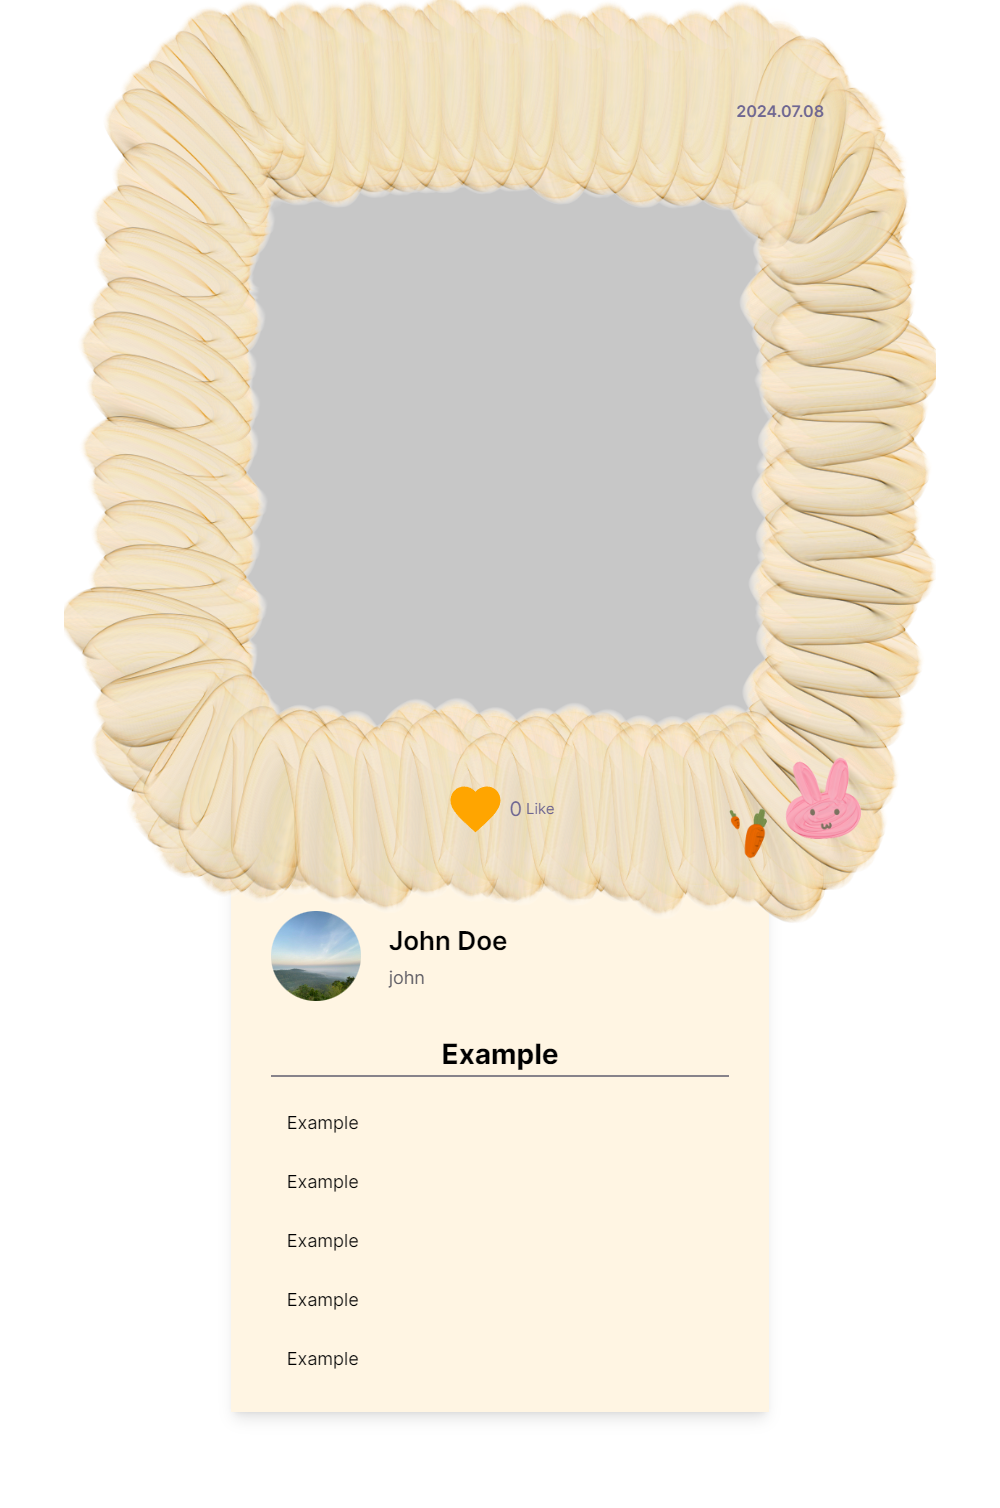
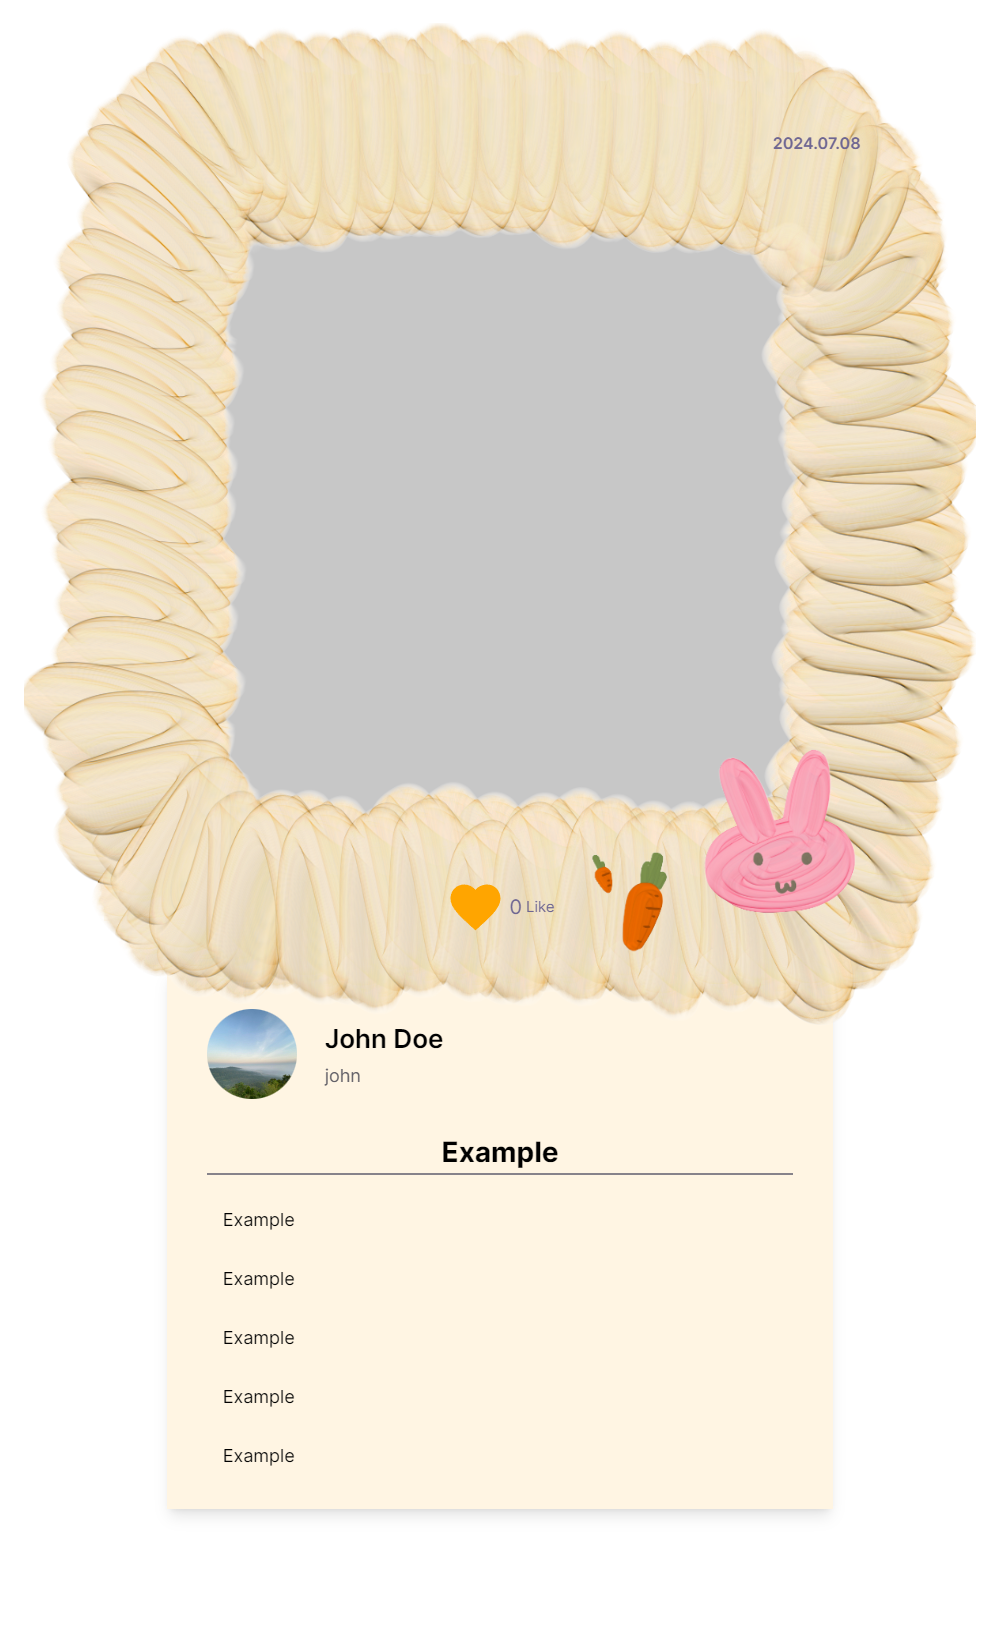
updated

Changed region(s): [[0.0, 0.0, 0.992, 0.935], [0.434, 0.6857, 0.558, 0.7168]]

diff --git a/components/previewFrame/CloudPre.jsx b/components/previewFrame/CloudPre.jsx
@@ -199,7 +199,7 @@ const CloudPre = ({ date, post, likesCount, creator, details, sriracha }) => {
           <div
             ref={postRef}
             id="postToSave"
-            className="flex flex-col w-[1000px] justify-center items-center p-24 invisible"
+            className="flex flex-col w-[1000px] justify-center items-center py-32 px-8 invisible"
           >
             <div className="pb-20 flex flex-col justify-center items-center relative z-50">
               <div className="w-[108%] h-[115%] absolute overflow-hidden z-10">
@@ -212,7 +212,7 @@ const CloudPre = ({ date, post, likesCount, creator, details, sriracha }) => {
               </div>
               <img
                 src="/cloud/bunny.png"
-                className="absolute w-[150px] bottom-10 right-8 z-10"
+                className="absolute w-[300px] bottom-10 right-16 z-10"
                 width={500}
                 height={50}
                 alt="icon"
